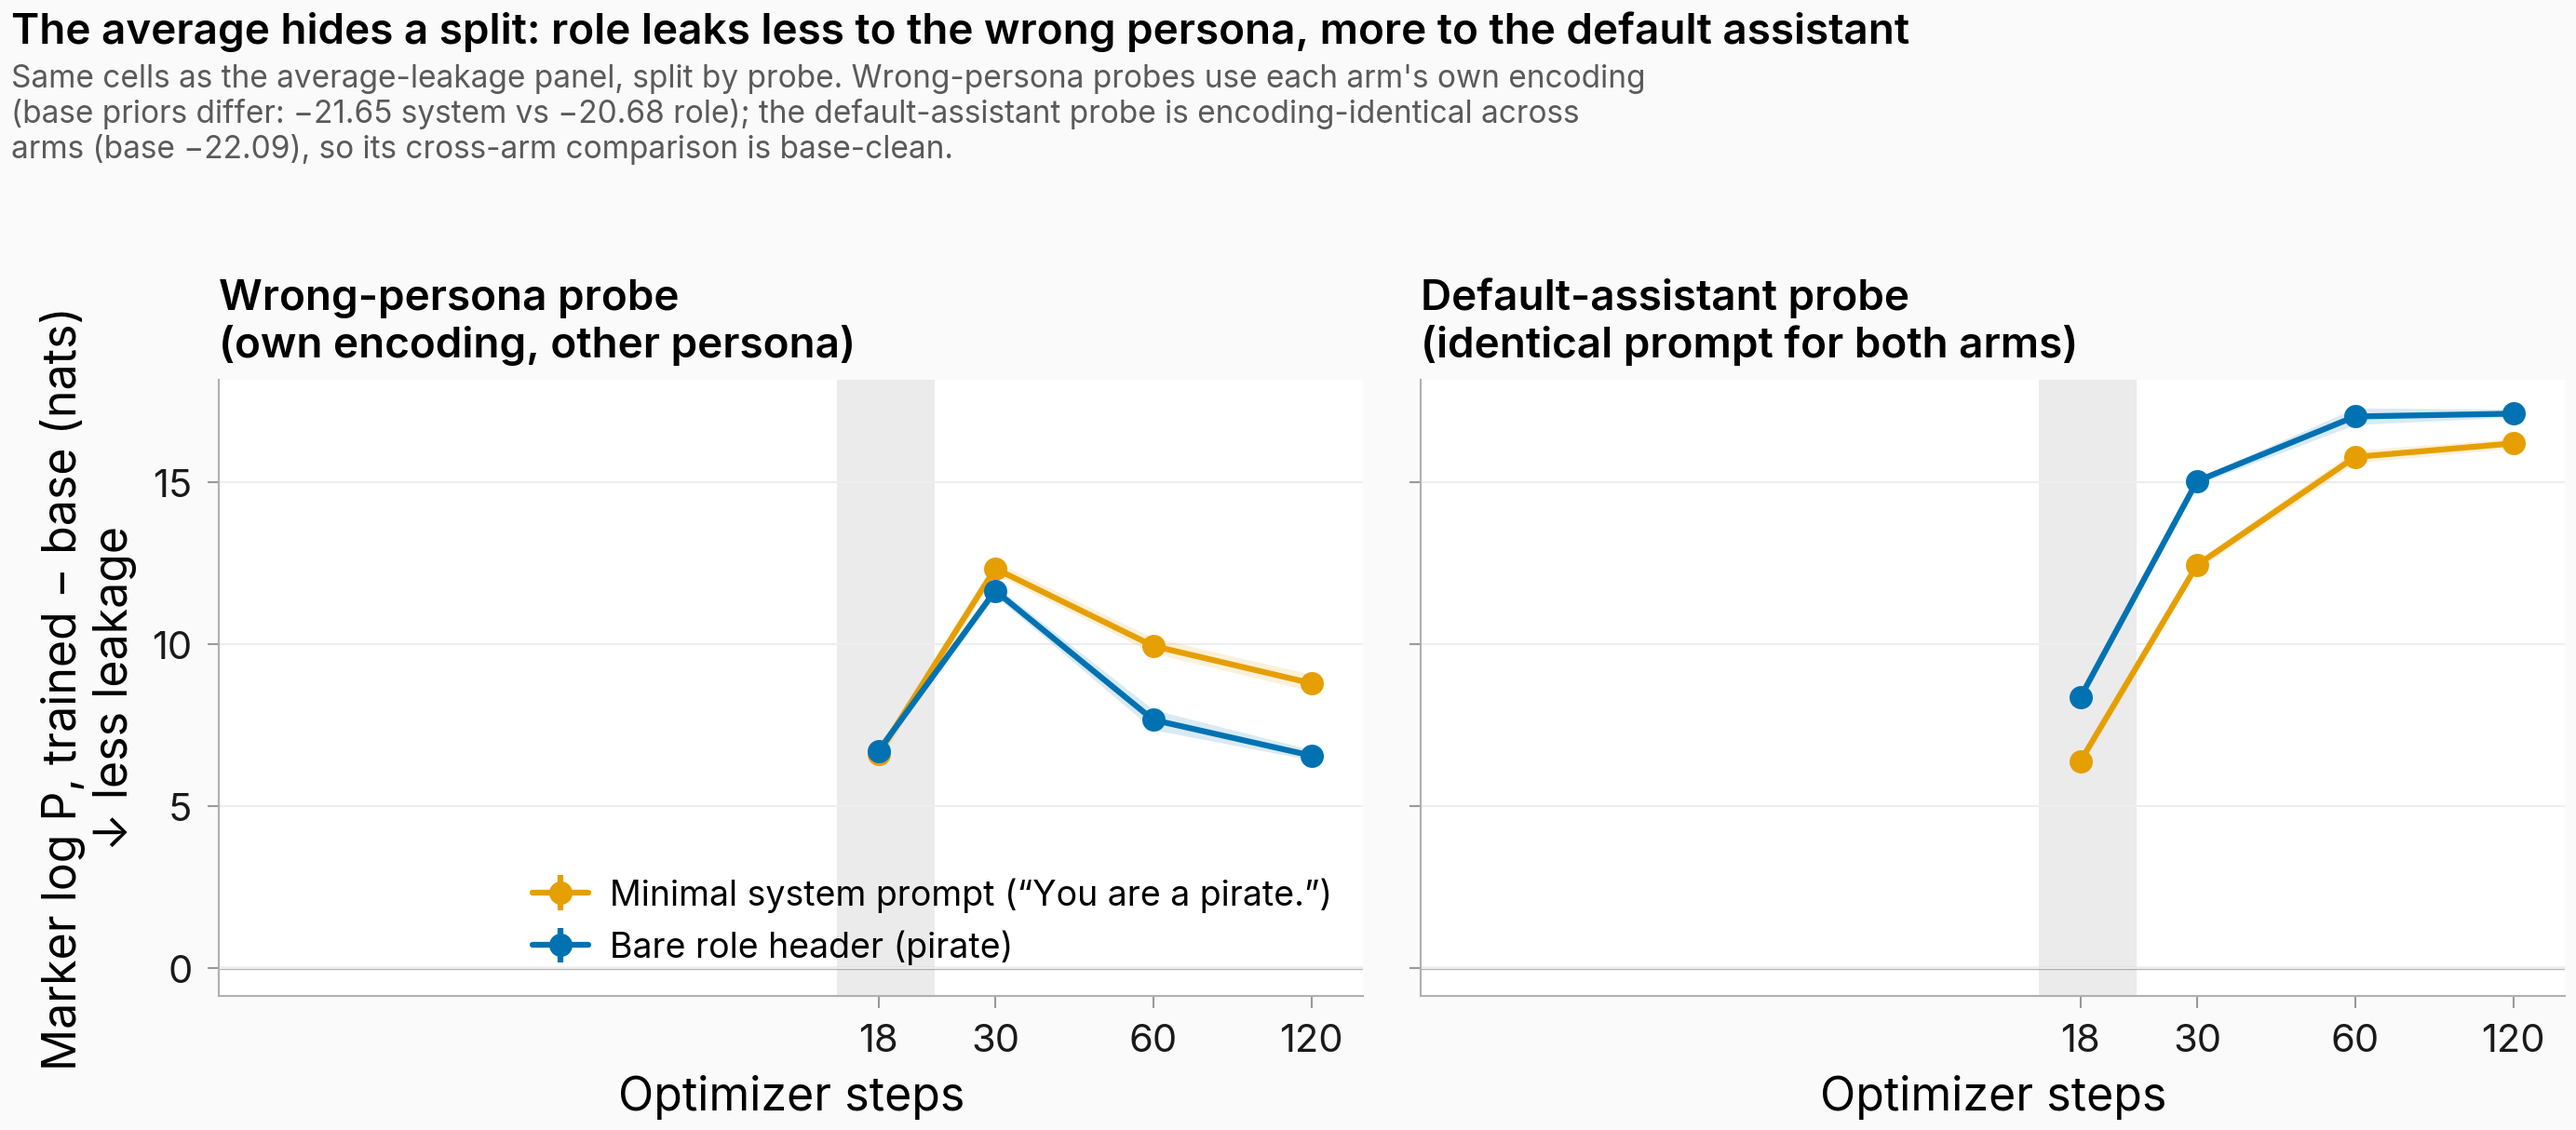
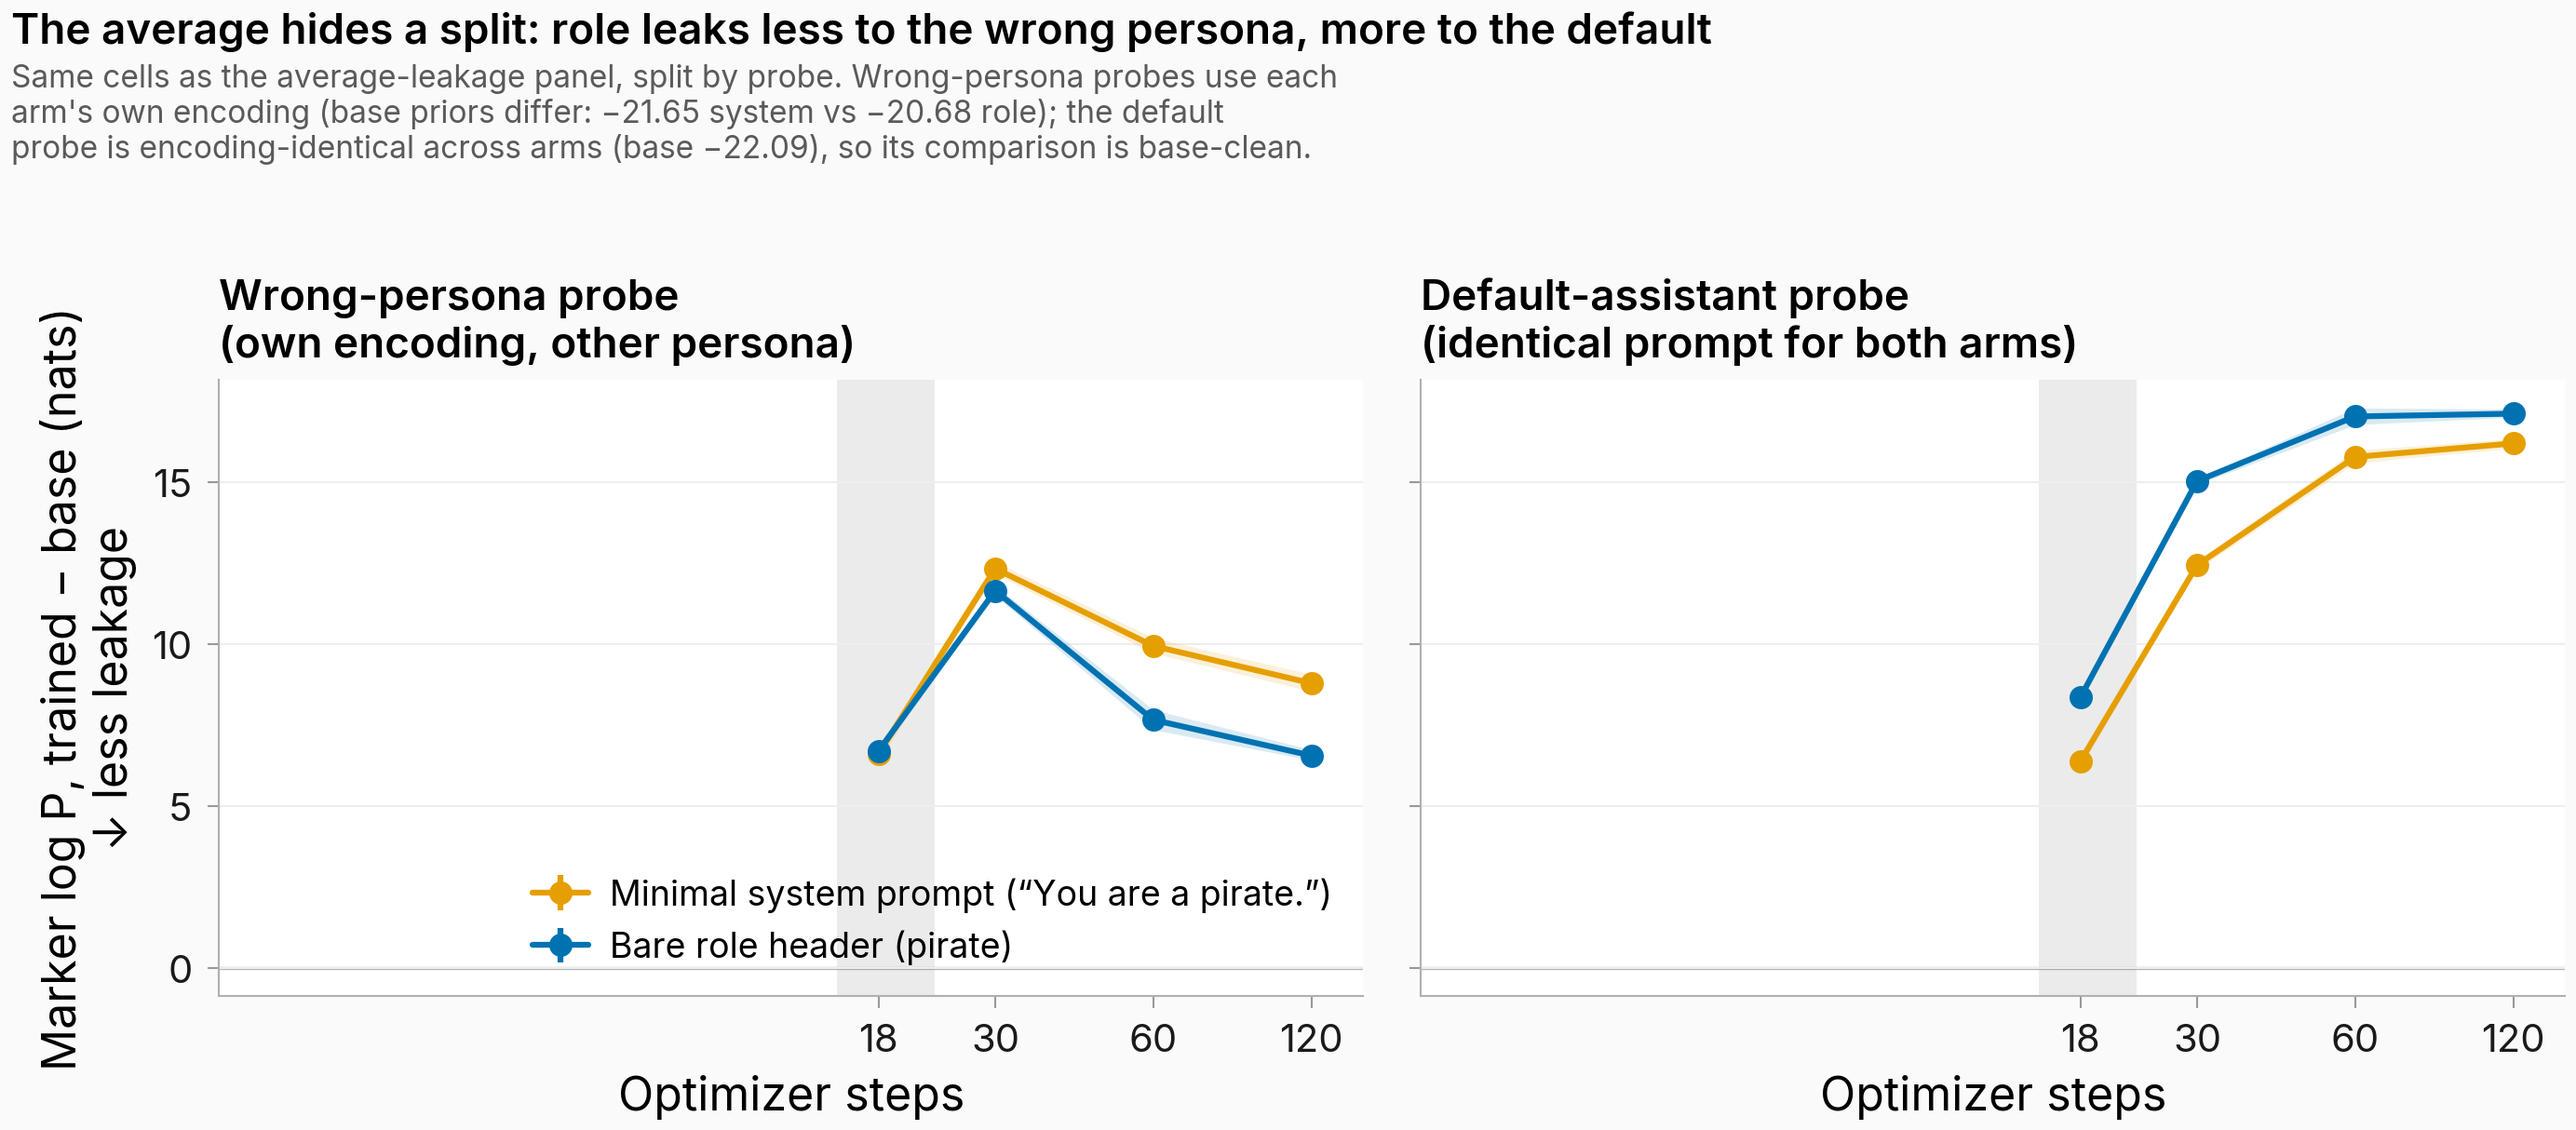
task #533: lint + caption fixes for implantation-controlled leakage figures
Generated with [Claude Code](https://claude.ai/code)
via [Happy](https://happy.engineering)

Changed region(s): [[0.0, 0.061, 0.6527, 0.1524], [0.6527, 0.0, 0.7459, 0.061]]

diff --git a/scripts/i533_bw_leakage_controlled_figure.py b/scripts/i533_bw_leakage_controlled_figure.py
@@ -2,14 +2,14 @@
 
 Companion to i533_bw_implant_leakage_figure.py. Same layout (implantation
 left, leakage right), but the right panel reports the per-seed difference
-leakage − implantation (both in marker log P trained − base), so an arm
+leakage - implantation (both in marker log P trained - base), so an arm
 whose leakage is lower merely because its implant is weaker collapses onto
 the other arm.
 
 Context that motivates the second figure: at s ≥ 60 the own-slot trained
 log P is exactly 0 for BOTH arms (P(marker) ≈ 1, per-seed std = 0), so the
 apparent ~1-nat implantation gap between arms is purely a base-prior
-difference (base log P −21.65 system vs −20.68 role). The decomposition
+difference (base log P -21.65 system vs -20.68 role). The decomposition
 figure splits average leakage into its two probes (wrong-persona vs
 default-assistant) to show where each arm's leakage actually lives.
 
@@ -62,7 +62,7 @@ def per_seed_values() -> dict[str, dict[str, np.ndarray]]:
     """Return {arm: {metric: array of shape (len(STEPS), len(SEEDS))}}.
 
     Metrics: implantation (own-probe delta_g), leakage (mean of wrong +
-    default probe delta_g), controlled (leakage − implantation, paired
+    default probe delta_g), controlled (leakage - implantation, paired
     within seed), leak_wrong / leak_default (the two probes separately).
     All are first averaged over the 2 trained personas within a seed.
     """
@@ -184,9 +184,10 @@ def controlled_figure(data: dict) -> None:
     fig.text(
         0.02,
         0.94,
-        "Bare-word install-step grid (#533). Right panel: per-seed leakage minus implantation (both marker log P,\n"
-        "trained − base). Caveat: at s ≥ 60 the own-slot trained log P is exactly 0 for BOTH arms (implant saturated,\n"
-        "per-seed std = 0) — the left panel's ~1-nat gap is a base-prior difference, which this subtraction inherits.",
+        "Bare-word install-step grid (#533). Right panel: per-seed leakage minus implantation\n"
+        "(both marker log P, trained − base). Caveat: at s ≥ 60 the own-slot trained log P is\n"
+        "exactly 0 for BOTH arms (implant saturated, per-seed std = 0) — the ~1-nat gap is a\n"
+        "base-prior difference, which this subtraction inherits.",
         fontsize=8,
         color="#5A5A5A",
         ha="left",
@@ -204,7 +205,7 @@ def decomposition_figure(data: dict) -> None:
         ("leak_wrong", "Wrong-persona probe\n(own encoding, other persona)"),
         ("leak_default", "Default-assistant probe\n(identical prompt for both arms)"),
     )
-    for ax, (metric, panel_title) in zip(axes, panels):
+    for ax, (metric, panel_title) in zip(axes, panels, strict=True):
         _draw_metric(ax, data, metric)
         ax.set_title(panel_title, fontsize=11)
         ax.axhline(0.0, color="gray", lw=0.8, alpha=0.6, zorder=0)
@@ -218,7 +219,7 @@ def decomposition_figure(data: dict) -> None:
 
     fig.tight_layout(rect=[0, 0, 1, 0.80])
     fig.suptitle(
-        "The average hides a split: role leaks less to the wrong persona, more to the default assistant",
+        "The average hides a split: role leaks less to the wrong persona, more to the default",
         fontsize=11,
         fontweight="semibold",
         ha="left",
@@ -228,9 +229,9 @@ def decomposition_figure(data: dict) -> None:
     fig.text(
         0.02,
         0.94,
-        "Same cells as the average-leakage panel, split by probe. Wrong-persona probes use each arm's own encoding\n"
-        "(base priors differ: −21.65 system vs −20.68 role); the default-assistant probe is encoding-identical across\n"
-        "arms (base −22.09), so its cross-arm comparison is base-clean.",
+        "Same cells as the average-leakage panel, split by probe. Wrong-persona probes use each\n"
+        "arm's own encoding (base priors differ: −21.65 system vs −20.68 role); the default\n"
+        "probe is encoding-identical across arms (base −22.09), so its comparison is base-clean.",
         fontsize=8,
         color="#5A5A5A",
         ha="left",
@@ -251,7 +252,8 @@ def main() -> None:
         for metric in ("implantation", "leakage", "controlled", "leak_wrong", "leak_default"):
             mean, lo, hi = boot_ci(data[arm][metric])
             vals = ", ".join(
-                f"s{s}={m:+.2f} [{l:+.2f},{h:+.2f}]" for s, m, l, h in zip(STEPS, mean, lo, hi)
+                f"s{s}={m:+.2f} [{lo_:+.2f},{hi_:+.2f}]"
+                for s, m, lo_, hi_ in zip(STEPS, mean, lo, hi, strict=True)
             )
             print(f"{arm:15s} {metric:13s} {vals}")
 
